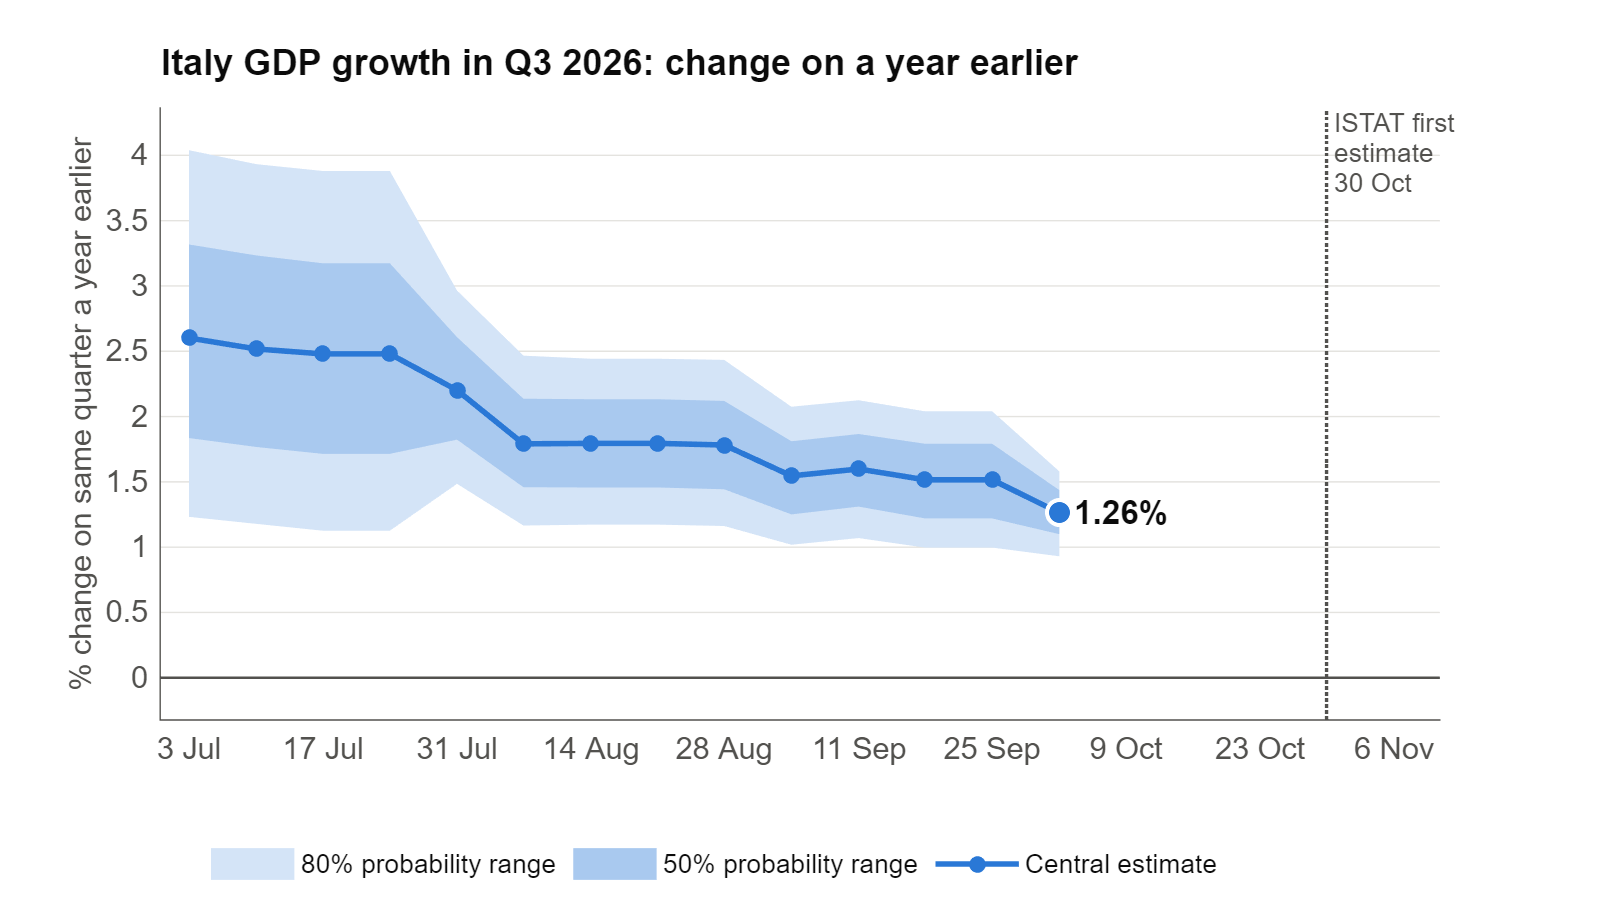
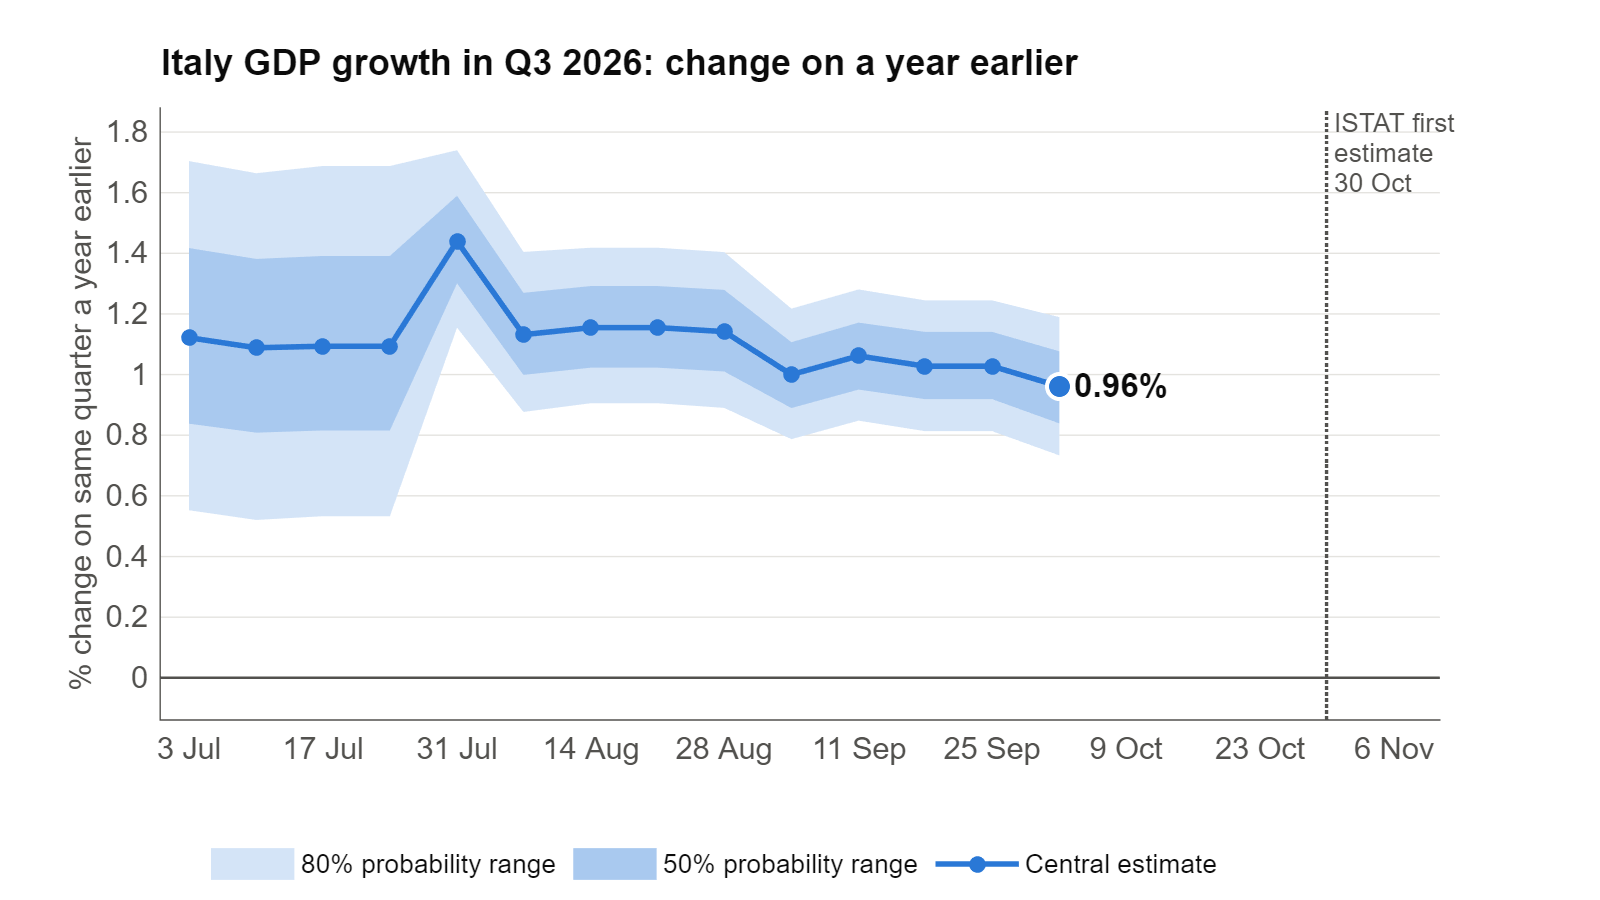
Update GDP nowcast

diff --git a/_pages/nowcast.md b/_pages/nowcast.md
@@ -5,9 +5,9 @@ permalink: /nowcast/
 author_profile: true
 ---
 
-**Latest estimate, 2 October 2026:** Italy's real GDP in **Q3 2026** grew by **0.44%** compared with the previous quarter.
-Likely range (80% probability): 0.11% to 0.76%. Compared with a year earlier: 1.26%.
-The estimate is down 0.25 percentage points from last week.
+**Latest estimate, 2 October 2026:** Italy's real GDP in **Q3 2026** grew by **0.14%** compared with the previous quarter.
+Likely range (80% probability): -0.09% to 0.36%. Compared with a year earlier: 0.96%.
+The estimate is down 0.07 percentage points from last week.
 {: .notice--primary style="font-size: 1.1em !important; line-height: 1.6;"}
 
 *Updated every Friday. Next official figure: ISTAT preliminary estimate for Q3 2026, due 30 October 2026.*
@@ -56,20 +56,20 @@ Grey bars are official ISTAT figures (latest available vintage); the blue bar is
 
 | Estimate made on | Quarter-on-quarter | 80% range | Year-on-year |
 |---|---:|---:|---:|
-| 2 October 2026 | 0.44% | 0.11% to 0.76% | 1.26% |
-| 25 September 2026 | 0.69% | 0.17% to 1.22% | 1.52% |
-| 18 September 2026 | 0.69% | 0.17% to 1.22% | 1.52% |
-| 11 September 2026 | 0.77% | 0.25% to 1.30% | 1.60% |
-| 4 September 2026 | 0.72% | 0.19% to 1.25% | 1.55% |
-| 28 August 2026 | 0.94% | 0.32% to 1.59% | 1.78% |
-| 21 August 2026 | 0.95% | 0.33% to 1.60% | 1.79% |
-| 14 August 2026 | 0.95% | 0.33% to 1.60% | 1.79% |
-| 7 August 2026 | 0.95% | 0.32% to 1.62% | 1.79% |
-| 31 July 2026 | 1.36% | 0.64% to 2.12% | 2.20% |
-| 24 July 2026 | 1.02% | 0.08% to 2.01% | 2.48% |
-| 17 July 2026 | 1.02% | 0.08% to 2.01% | 2.48% |
-| 10 July 2026 | 1.05% | 0.11% to 2.04% | 2.52% |
-| 3 July 2026 | 1.12% | 0.15% to 2.12% | 2.60% |
+| 2 October 2026 | 0.14% | -0.09% to 0.36% | 0.96% |
+| 25 September 2026 | 0.20% | -0.01% to 0.42% | 1.03% |
+| 18 September 2026 | 0.20% | -0.01% to 0.42% | 1.03% |
+| 11 September 2026 | 0.24% | 0.02% to 0.46% | 1.06% |
+| 4 September 2026 | 0.18% | -0.04% to 0.39% | 1.00% |
+| 28 August 2026 | 0.30% | 0.05% to 0.56% | 1.14% |
+| 21 August 2026 | 0.31% | 0.06% to 0.57% | 1.15% |
+| 14 August 2026 | 0.31% | 0.06% to 0.57% | 1.15% |
+| 7 August 2026 | 0.29% | 0.03% to 0.56% | 1.13% |
+| 31 July 2026 | 0.60% | 0.31% to 0.90% | 1.44% |
+| 24 July 2026 | 0.02% | -0.37% to 0.43% | 1.09% |
+| 17 July 2026 | 0.02% | -0.37% to 0.43% | 1.09% |
+| 10 July 2026 | 0.02% | -0.37% to 0.43% | 1.09% |
+| 3 July 2026 | 0.04% | -0.37% to 0.45% | 1.12% |
 
 ![Year-on-year nowcast](web_nowcast_yoy.png)
 
@@ -152,4 +152,4 @@ Grey bars are official ISTAT figures (latest available vintage); the blue bar is
 
 ---
 
-<small>Page generated automatically on 02 Oct 2026 16:38.</small>
+<small>Page generated automatically on 02 Oct 2026 19:55.</small>
